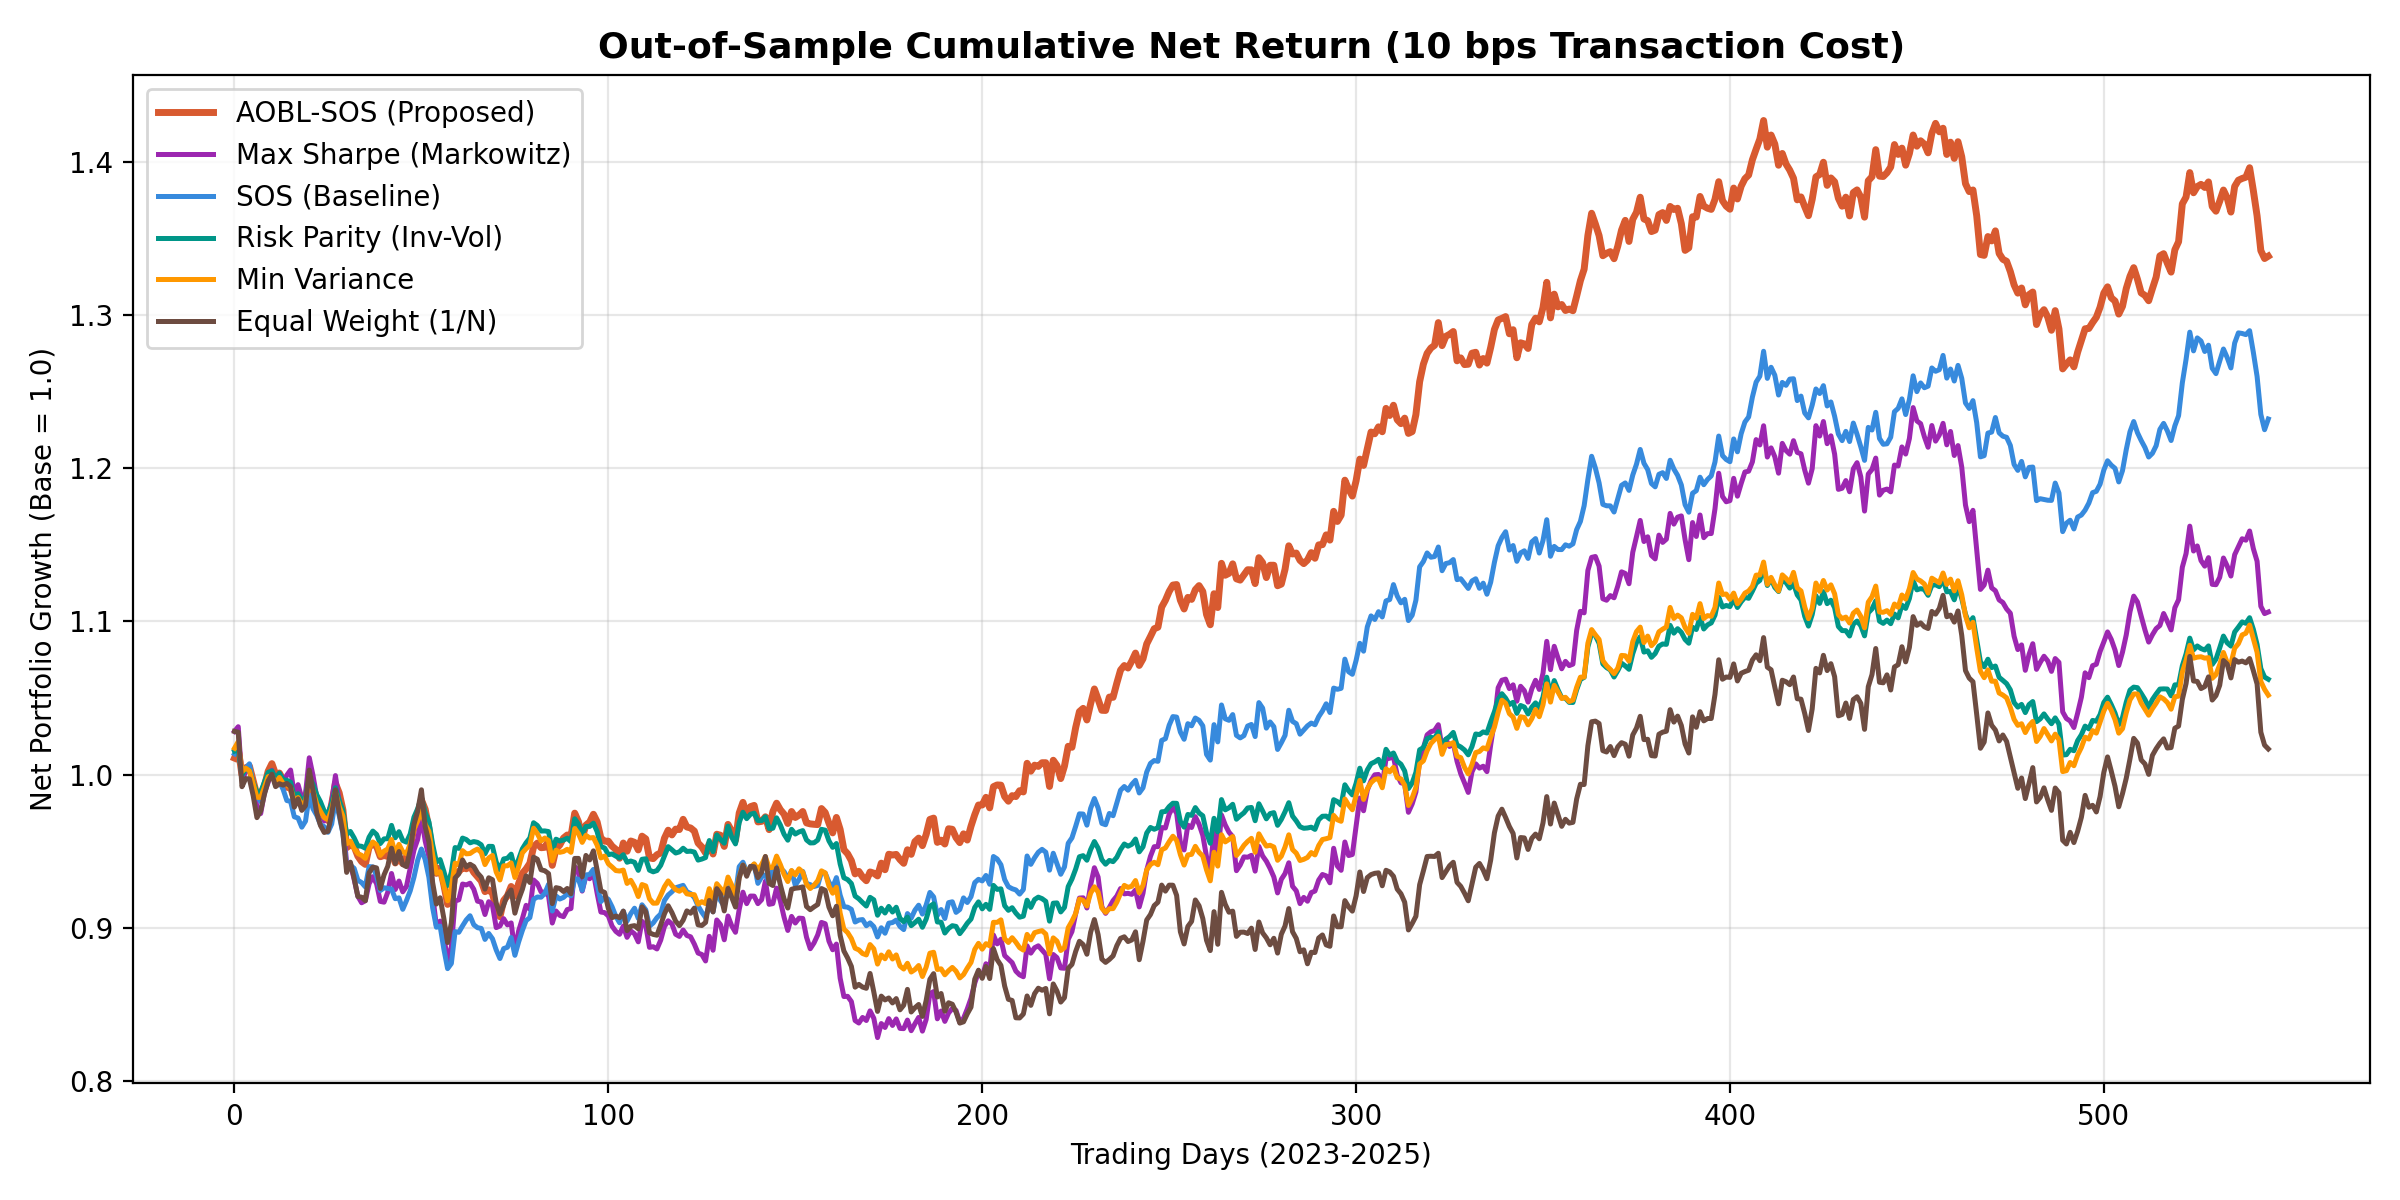
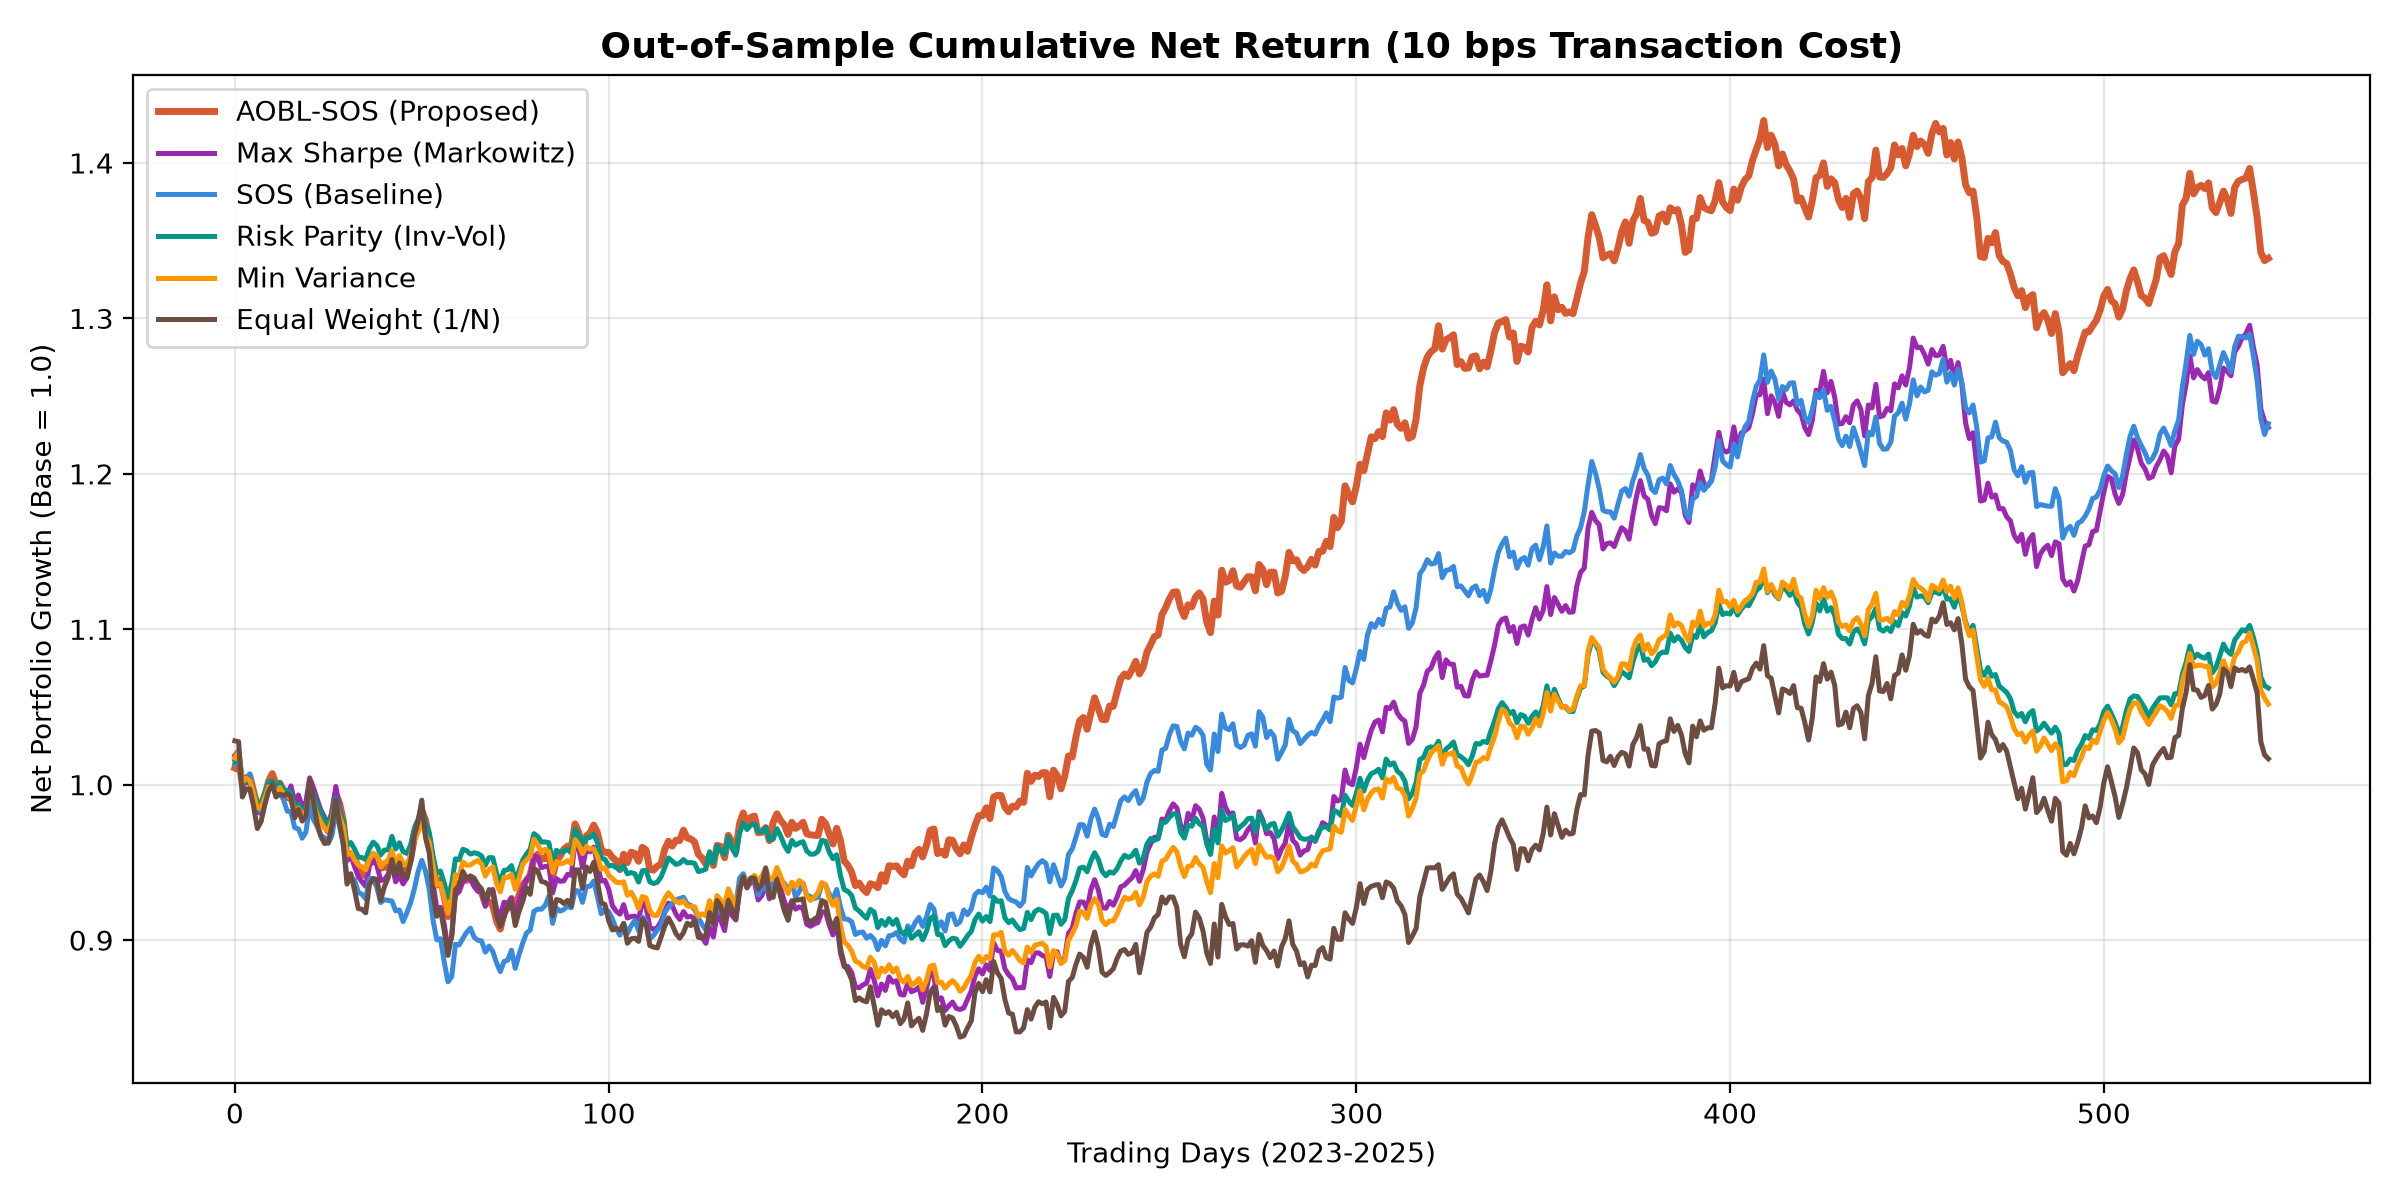
Consolidate all graphs and CSVs into manuscript directory for seamless LaTeX compilation

diff --git a/scripts/run_experiments.py b/scripts/run_experiments.py
@@ -37,7 +37,7 @@ def inverse_volatility_portfolio(cov, cap=0.20, K=30):
     inv_vols = 1.0 / (vols + 1e-12)
     return normalize_cap_cardinality(inv_vols, cap, K)
 
-def run_jpm_experiments(output_dir="jpm/final_submission/results"):
+def run_jpm_experiments(output_dir="manuscript"):
     os.makedirs(output_dir, exist_ok=True)
     
     set_seed(42)
